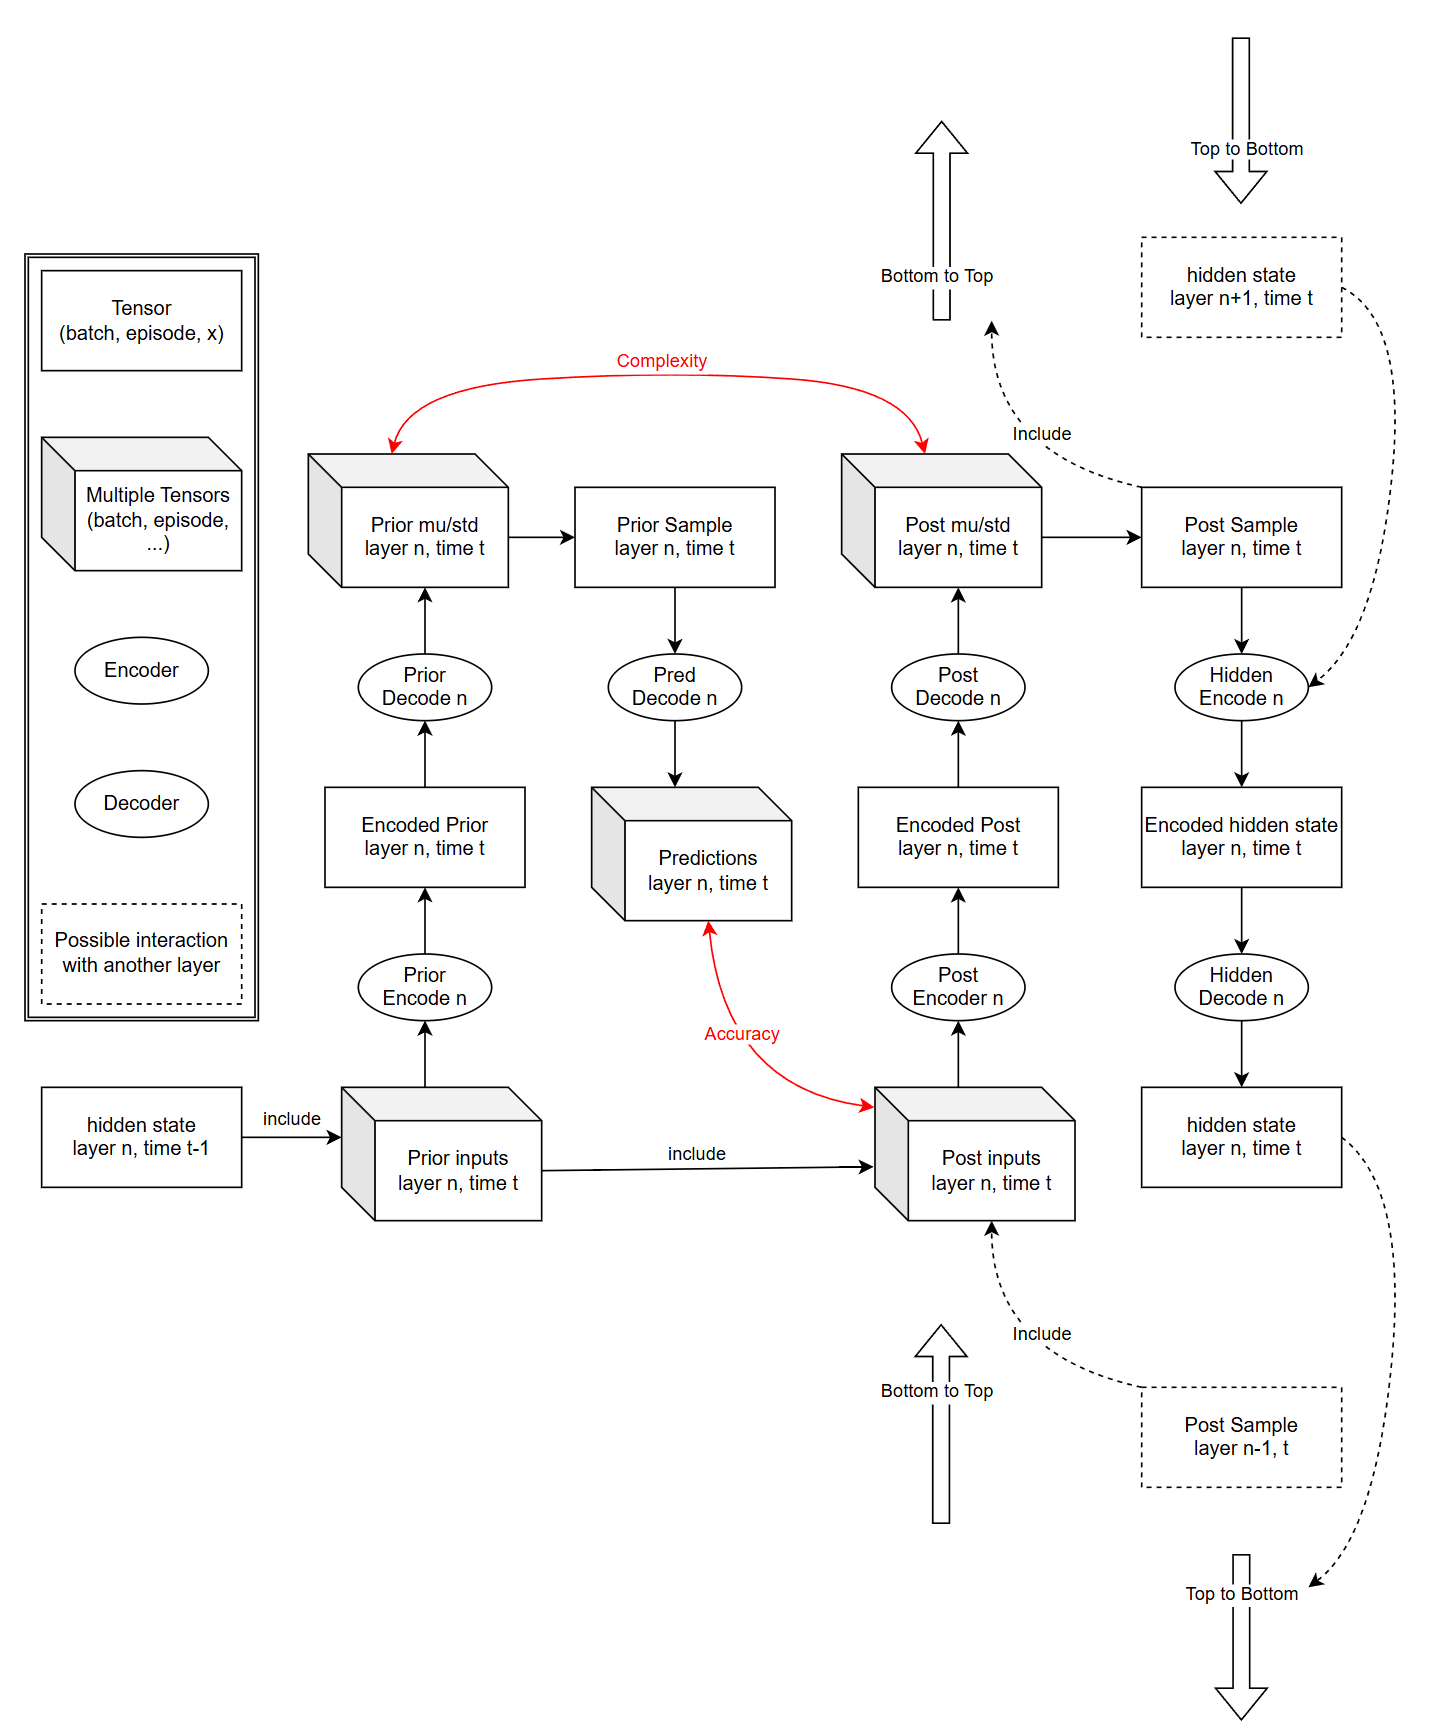
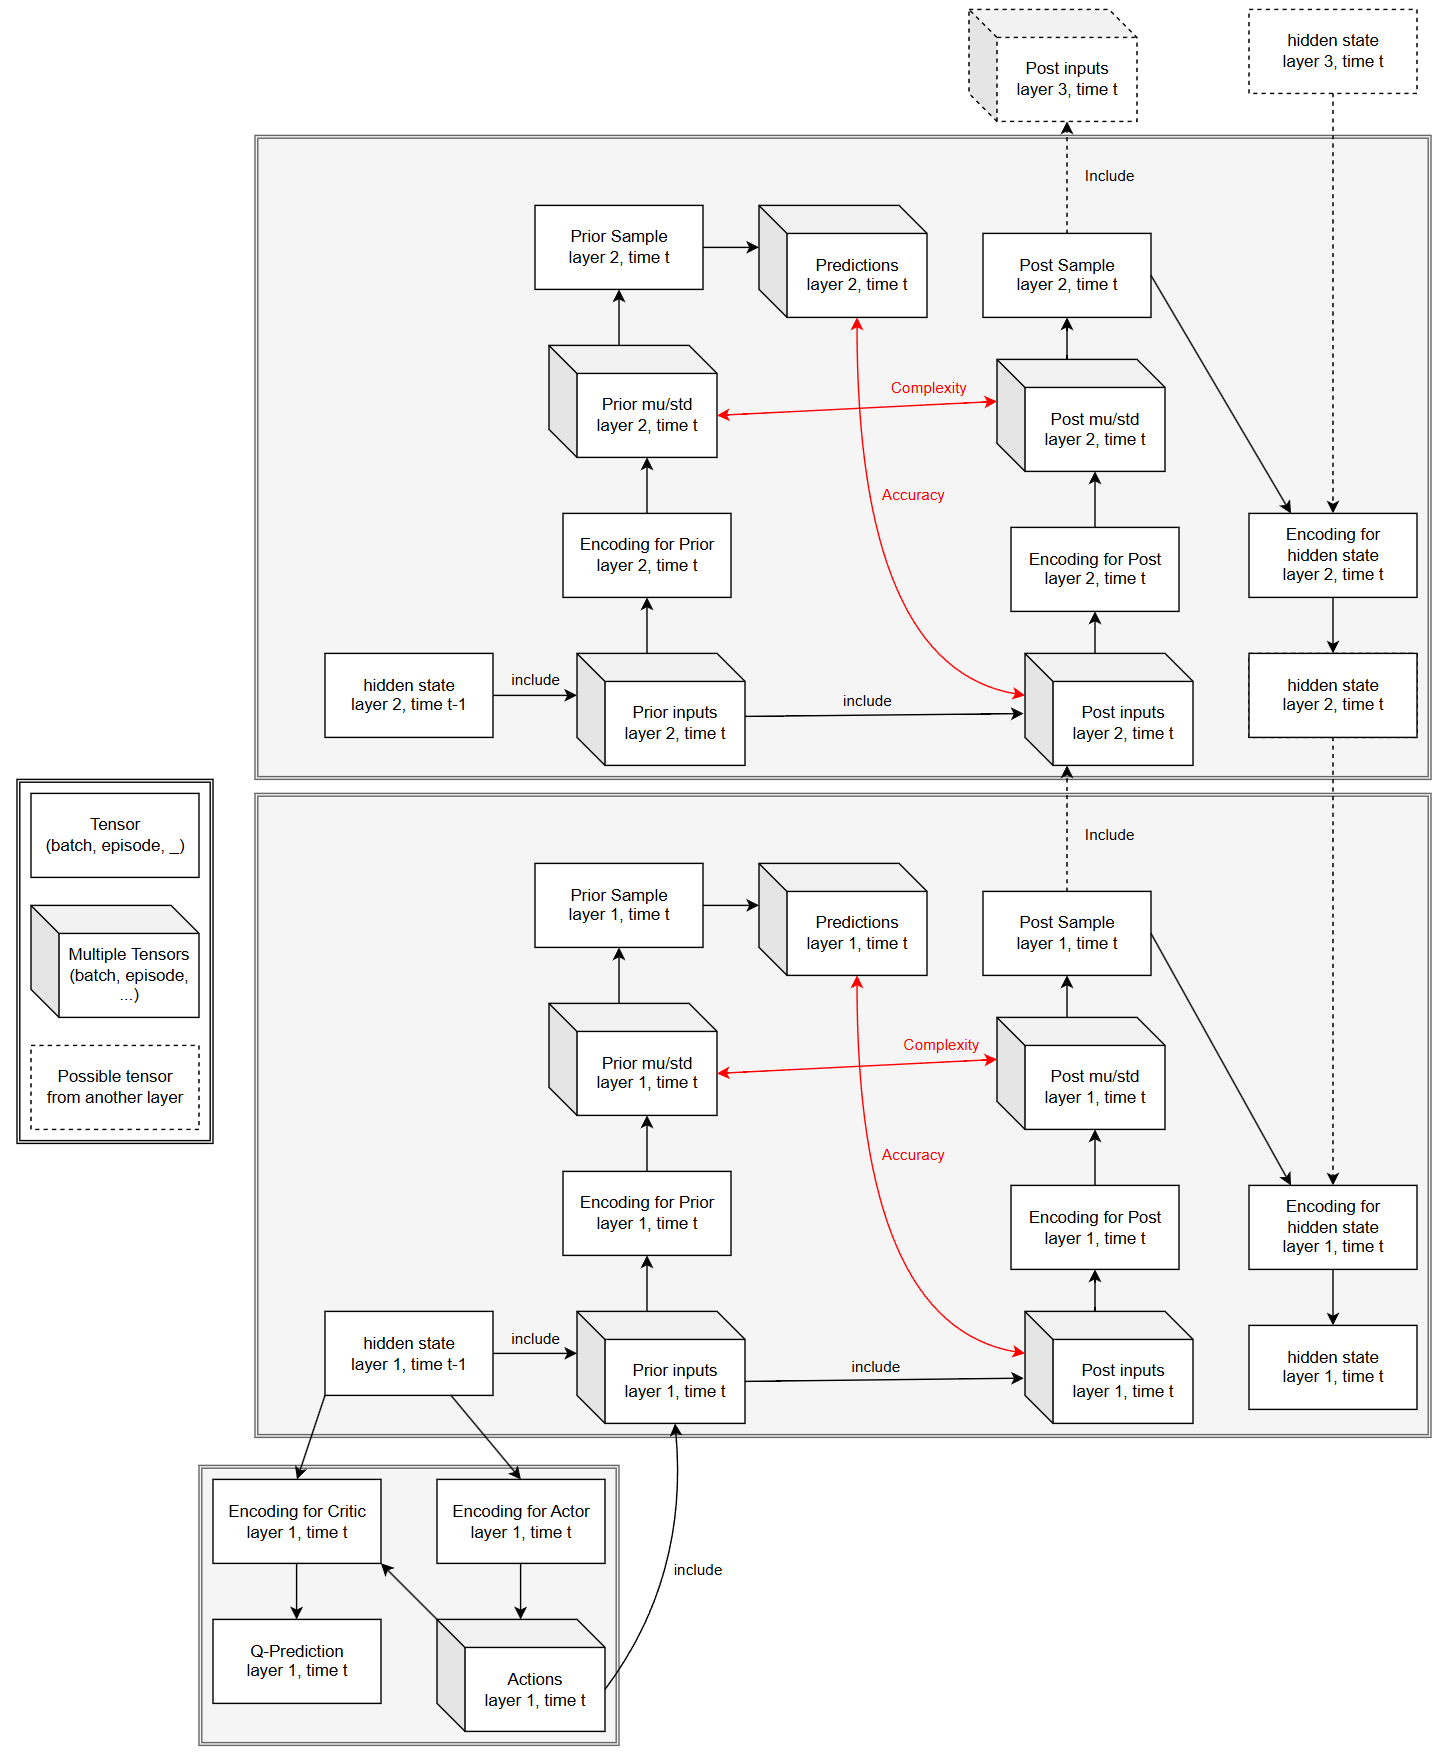
2026_08_23. Branch from here!

diff --git a/general_FEP_RL/agent_methods.py b/general_FEP_RL/agent_methods.py
@@ -304,7 +304,7 @@ class Agent_Methods:
             curiosity_saturations[layer_key] = {}
             for name, scalars in self.list_of_dict_of_inner_state_scalar_dicts[i].items():
                 before_clamp = dkls[layer_key][name] * scalars['eta_before_clamp']
-                this_curiosity = scalars['eta'] * torch.clamp(before_clamp, min = 0, max = 1)
+                this_curiosity = scalars['eta'] * torch.clamp(before_clamp, min = 0, max = 1)   # Clamping at one stops explosing DKL.
                 this_curiosity = this_curiosity * mask
                 curiosity = curiosity + this_curiosity
                 curiosities[layer_key][name] = self.masked_mean(this_curiosity, mask).item()
